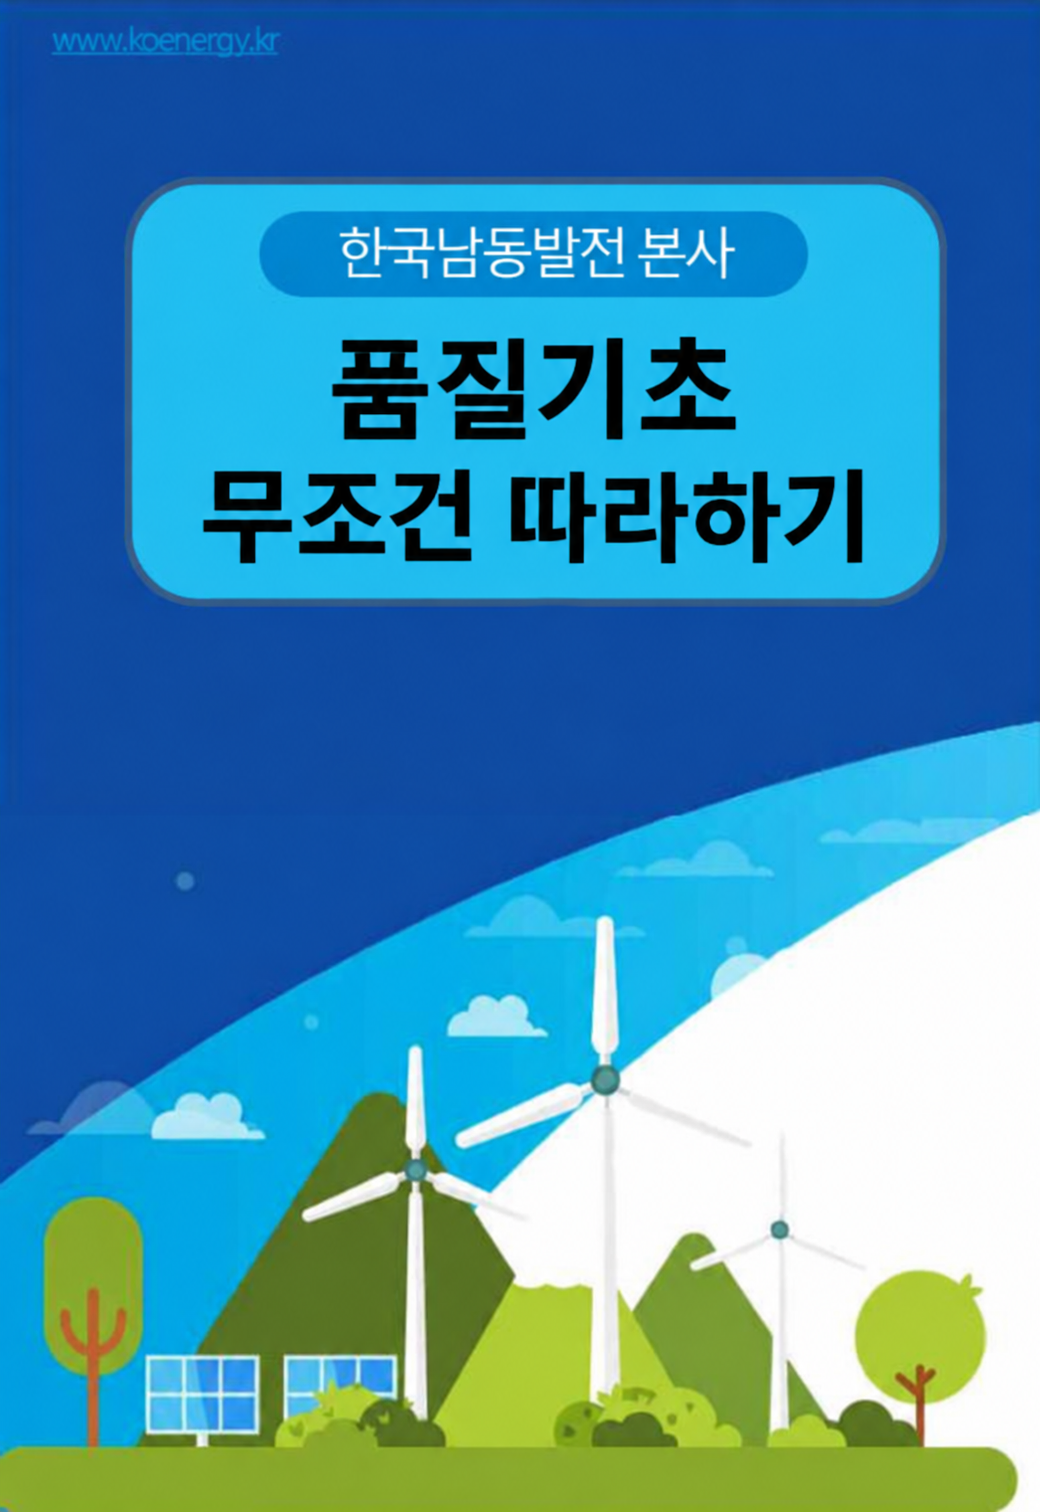
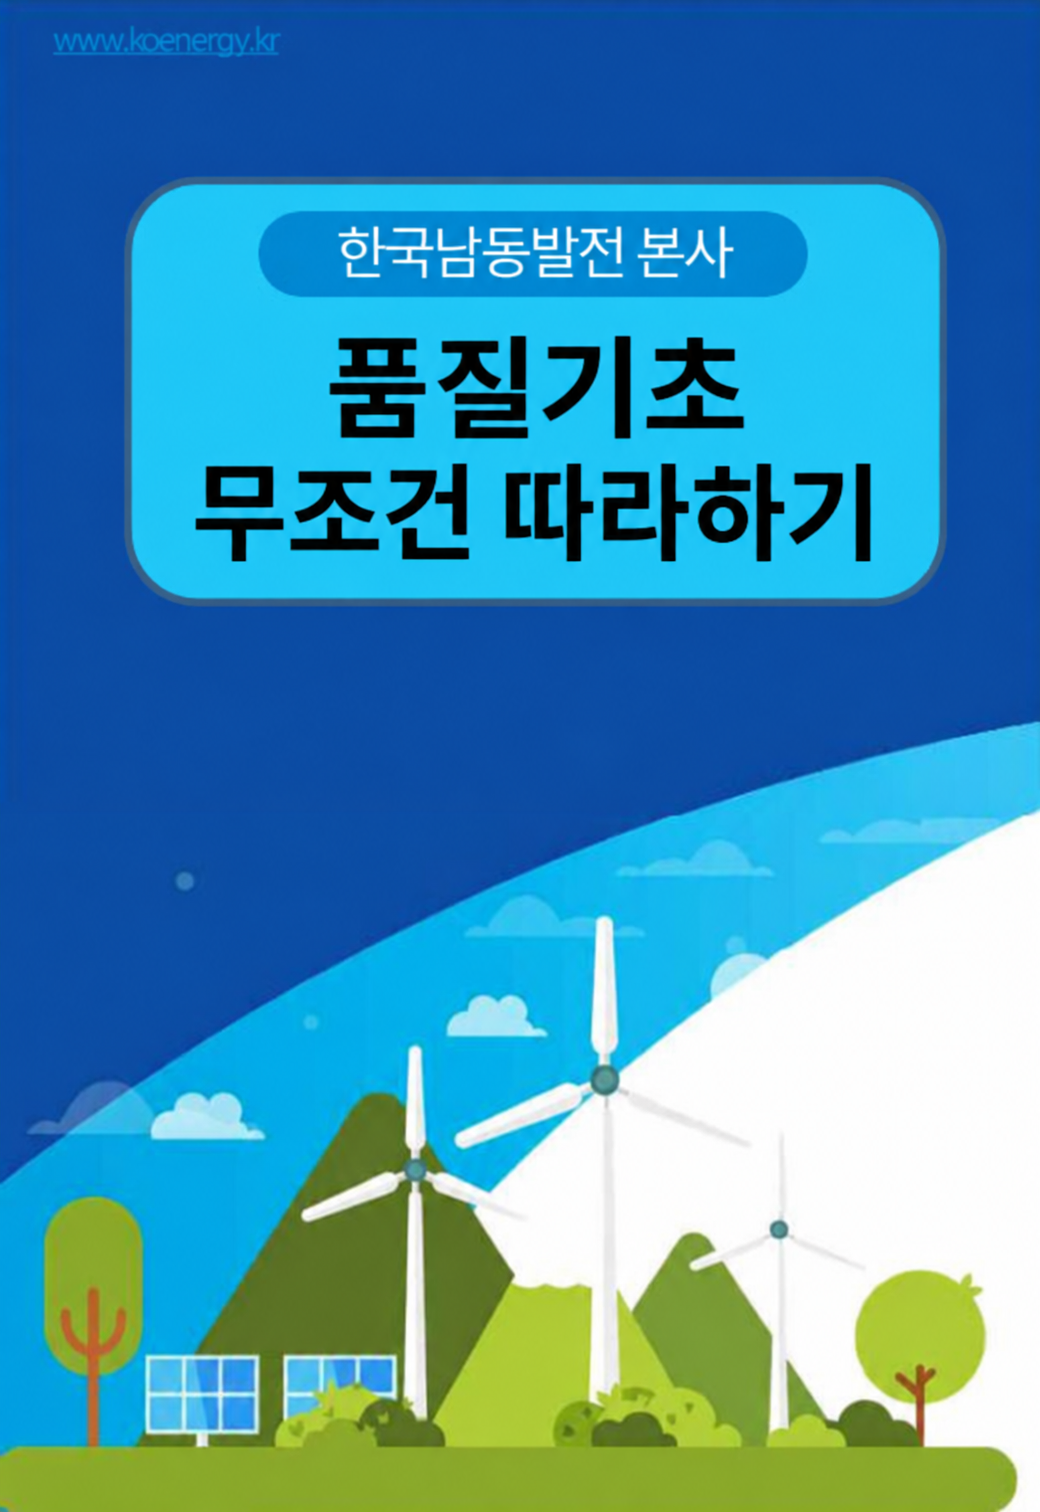
a

diff --git a/work/basics_of_Quality/index.html b/work/basics_of_Quality/index.html
@@ -12,8 +12,8 @@
   <meta name="twitter:card" content="summary" />
   <meta name="twitter:title" content="품질기초 무조건 따라하기" />
   <meta name="twitter:description" content="품질업무 7개 핵심 안내와 Check Sheet 2종을 확인하세요." />
-  <meta property="og:image" content="./품질기초_무조건_따라하기.png" />
-  <meta name="twitter:image" content="./품질기초_무조건_따라하기.png" />
+  <meta property="og:image" content="https://res.cloudinary.com/dqpcvlakz/image/upload/v1792112609/quality_preview_oasifg.png" />
+  <meta name="twitter:image" content="https://res.cloudinary.com/dqpcvlakz/image/upload/v1792112609/quality_preview_oasifg.png" />
 
   <style>
 /* ===========================================================
@@ -736,7 +736,7 @@ function showHomeInstallGuide() {
 <div id="cover-page" class="cover-page">
 
   <!-- 표지 전체 이미지 -->
-  <img src="https://res.cloudinary.com/dqpcvlakz/image/upload/v1792112609/quality_preview_oasifg.png"
+  <img src="./quality_preview.png"
        class="cover-img" alt="품질기초 무조건 따라하기 표지">
 
   <!-- 🔵 커버 이미지 위에 올라온 로고 + 박스 -->
